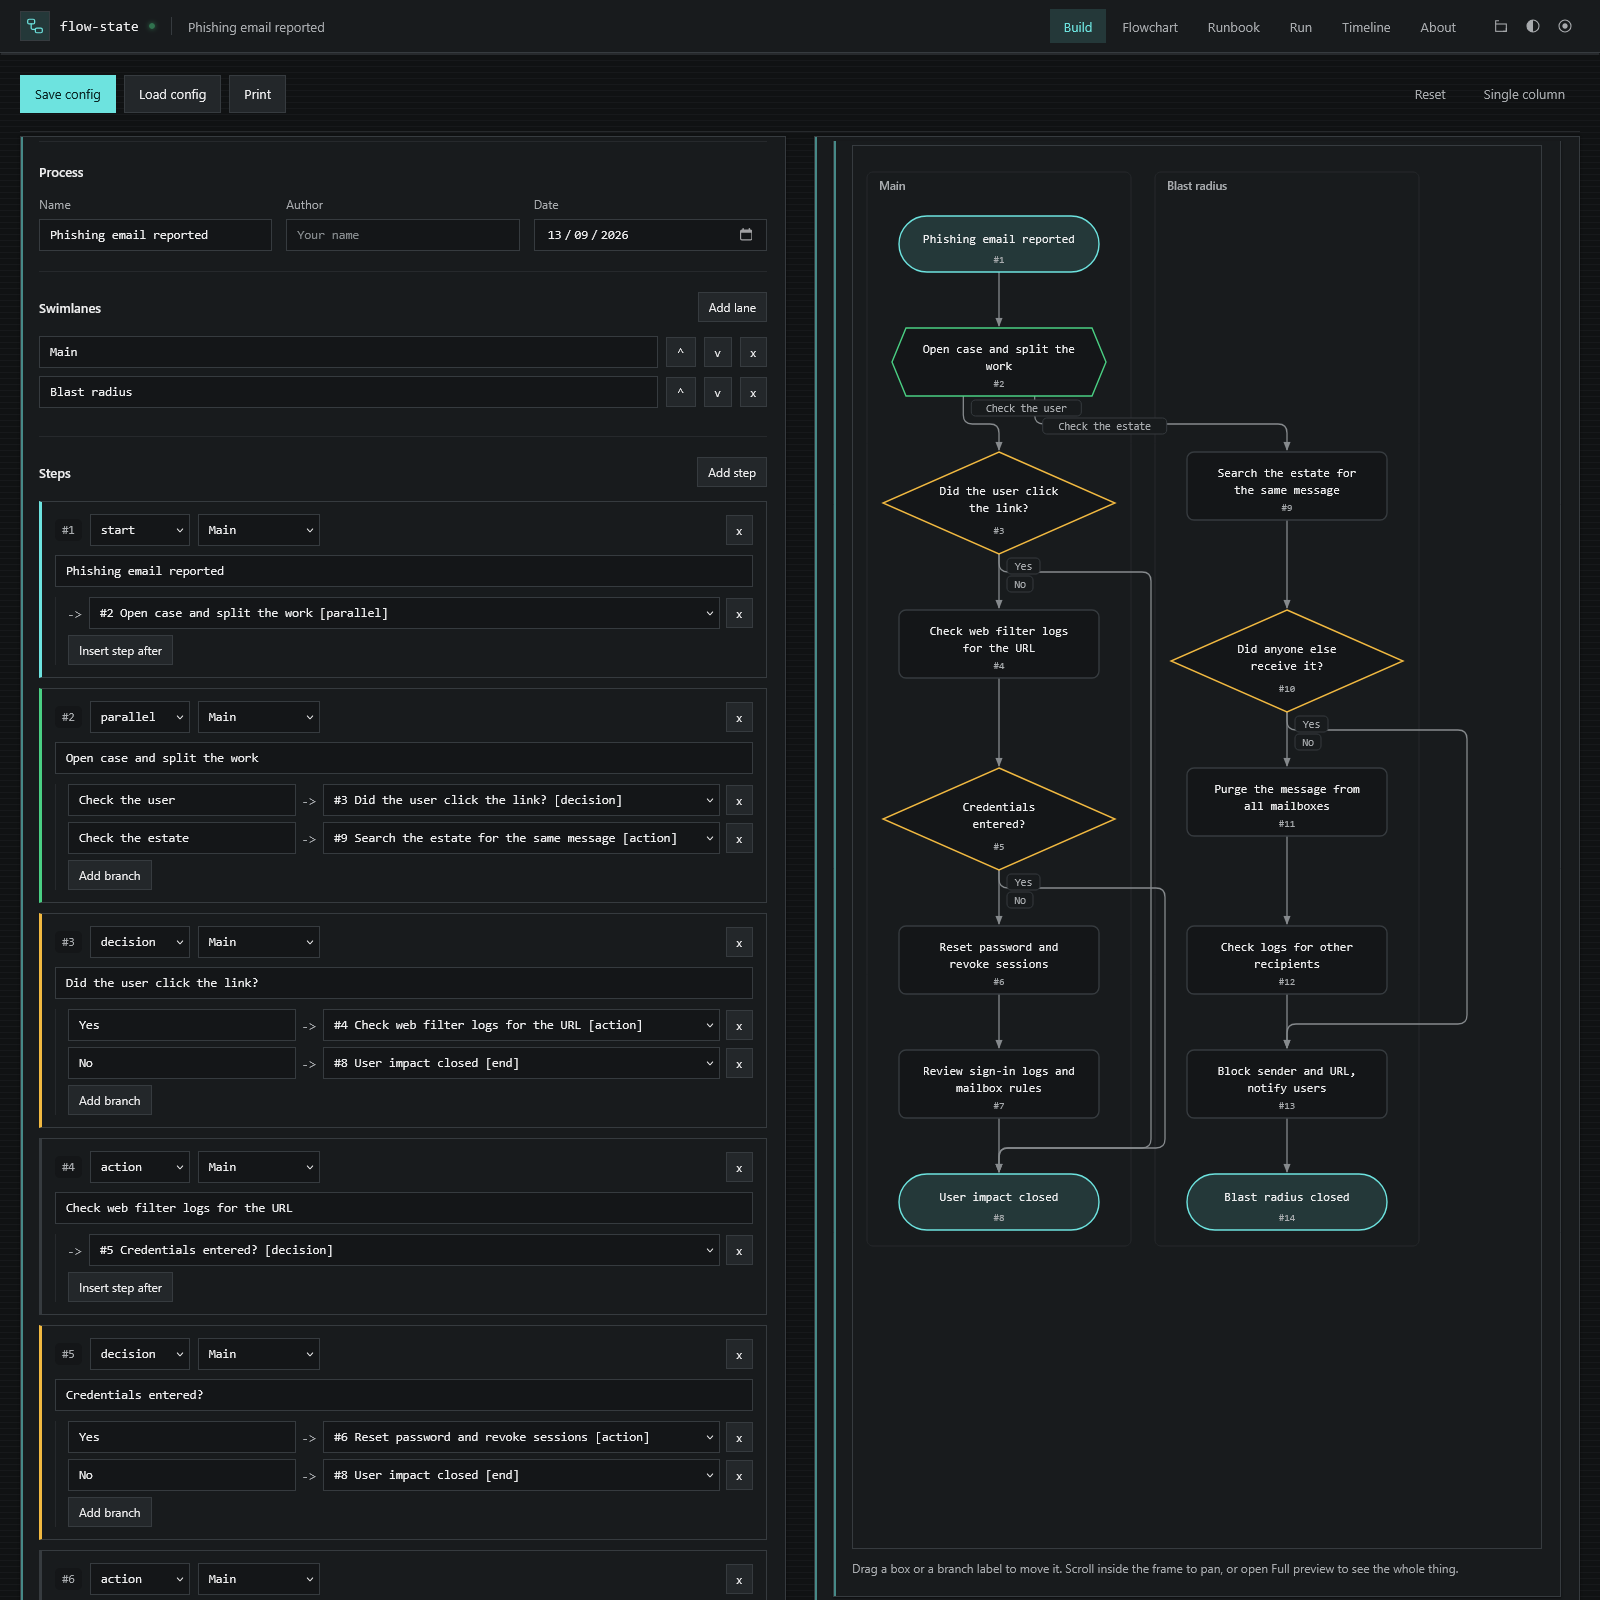
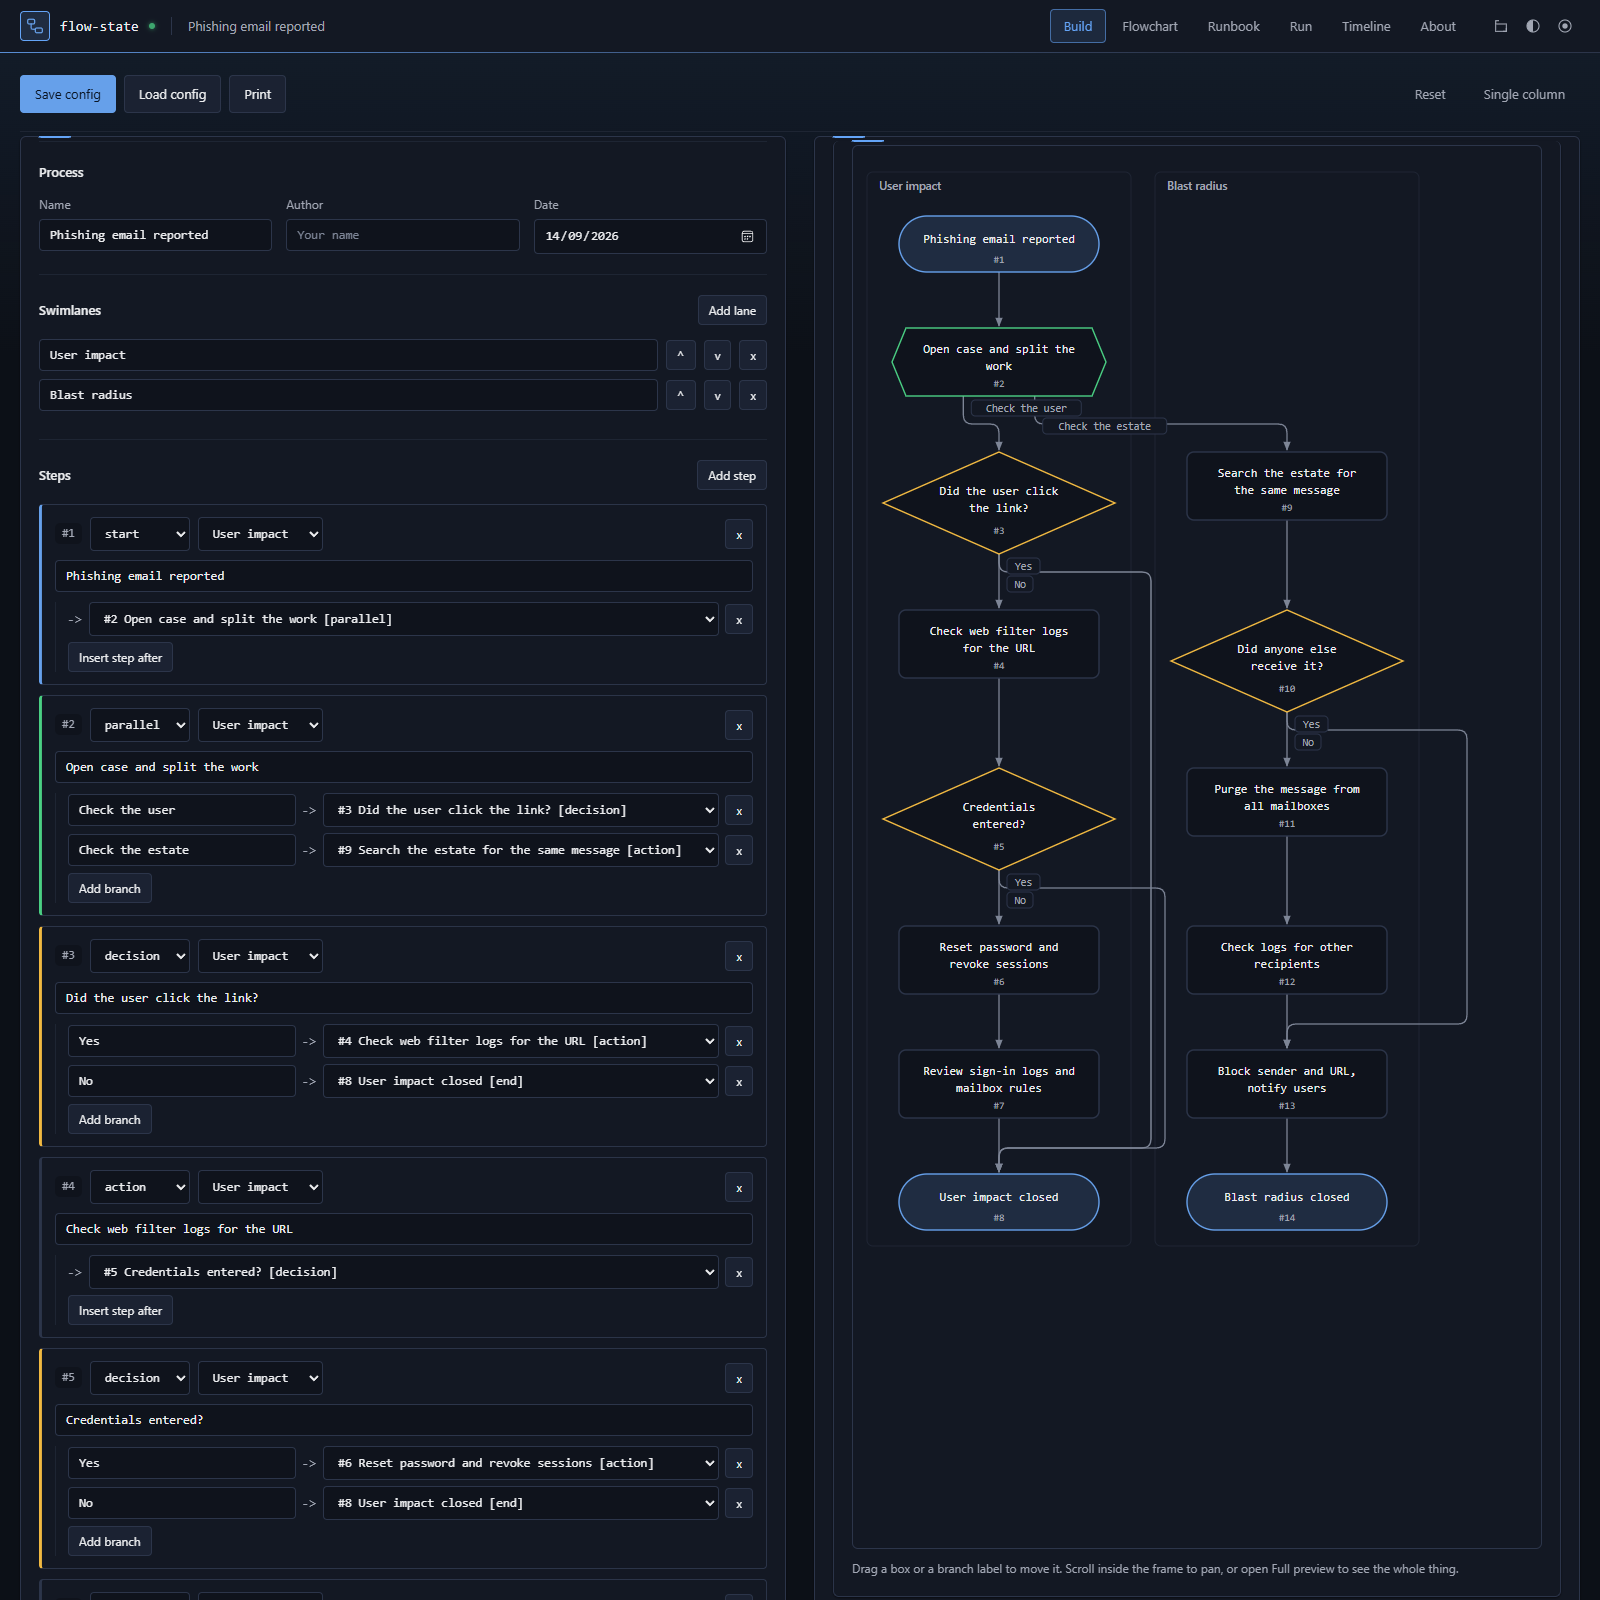
Replace the circuit design with cobalt and make it the default
Cobalt is a navy, blue-ruled design in place of the green circuit board
one. It is now the default and first in the design menu, with Azure as
the default accent. Screenshots retaken in the new default.

diff --git a/index.html b/index.html
@@ -1,5 +1,5 @@
 <!DOCTYPE html>
-<html lang="en" data-design="chamfer" data-mode="dark">
+<html lang="en" data-design="cobalt" data-mode="dark">
 <head>
 <meta charset="UTF-8">
 <meta name="viewport" content="width=device-width, initial-scale=1.0">
@@ -18,7 +18,7 @@
 
    One stylesheet, three independent axes:
 
-     data-design  chamfer | console | circuit | contour
+     data-design  cobalt | chamfer | console | contour
                   shape language, surface hue family, backdrop
                   texture, ornament. This is the "look".
 
@@ -58,15 +58,26 @@
     --ctl:      30px;   /* icon button / logo tile box */
 
     /* Accent defaults, overwritten inline by the picker. */
-    --ah: 178;
-    --ac: 68%;
+    --ah: 214;
+    --ac: 76%;
 }
 
 /* ============================================================
    Designs: hue family per mode group, shape, ornament switches
    ============================================================ */
 
-/* Cut corners, instrument grid. The house design. */
+/* Navy editor chrome, one constant blue rule. The house design. */
+html[data-design="cobalt"] {
+    --hd: 222; --sd: 30%;
+    --hw: 38;  --sw: 28%;
+    --hl: 216; --sl: 28%;
+    --radius: 6px;
+    --radius-sm: 4px;
+    --notch: 0px;
+    --notch-sm: 0px;
+}
+
+/* Cut corners, instrument grid. */
 html[data-design="chamfer"] {
     --hd: 218; --sd: 20%;    /* dark + dusk surfaces */
     --hw: 36;  --sw: 30%;    /* sepia surfaces */
@@ -84,17 +95,6 @@ html[data-design="console"] {
     --hl: 210; --sl: 7%;
     --radius: 0px;
     --radius-sm: 0px;
-    --notch: 0px;
-    --notch-sm: 0px;
-}
-
-/* Board colours, via grid, one constant plating. */
-html[data-design="circuit"] {
-    --hd: 152; --sd: 38%;
-    --hw: 40;  --sw: 34%;
-    --hl: 150; --sl: 8%;
-    --radius: 3px;
-    --radius-sm: 2px;
     --notch: 0px;
     --notch-sm: 0px;
 }
@@ -132,7 +132,7 @@ html[data-mode="dark"] {
     --warn: hsl(41 86% 60%);
     --bad:  hsl(5 85% 66%);
     --ok-ink: hsl(146 60% 8%);
-    --copper: #d3a24a;
+    --cobalt: hsl(214 90% 68%);
 }
 
 /* "Not as dark": same palette lifted off black, for rooms with
@@ -151,7 +151,7 @@ html[data-mode="dusk"] {
     --warn: hsl(41 82% 62%);
     --bad:  hsl(5 82% 68%);
     --ok-ink: hsl(146 60% 9%);
-    --copper: #dcae5c;
+    --cobalt: hsl(214 88% 74%);
 }
 
 /* Warm paper. Bright but low glare. */
@@ -169,7 +169,7 @@ html[data-mode="sepia"] {
     --warn: hsl(32 78% 34%);
     --bad:  hsl(2 68% 44%);
     --ok-ink: hsl(40 40% 97%);
-    --copper: #96681a;
+    --cobalt: hsl(216 62% 38%);
 }
 
 /* Cool white. The print-adjacent one. */
@@ -187,7 +187,7 @@ html[data-mode="light"] {
     --warn: hsl(32 80% 33%);
     --bad:  hsl(2 70% 45%);
     --ok-ink: hsl(150 30% 99%);
-    --copper: #8a6410;
+    --cobalt: hsl(216 72% 42%);
 }
 
 /* ============================================================
@@ -262,13 +262,11 @@ html[data-design="console"] body::before {
         var(--line-soft) 0 1px, transparent 1px 6px);
     opacity: 0.32;
 }
-/* Via holes: a plated ring around a hole the colour of the board. */
-html[data-design="circuit"] body::before {
-    background-image:
-        radial-gradient(circle, var(--line) 1.4px, transparent 1.6px),
-        radial-gradient(circle, var(--bg) 0.7px, transparent 0.9px);
-    background-size: 30px 30px, 30px 30px;
-    opacity: 0.55;
+/* A faint blue light falling from the top edge, like a lit screen. */
+html[data-design="cobalt"] body::before {
+    background-image: linear-gradient(180deg,
+        color-mix(in srgb, var(--cobalt) 9%, transparent), transparent 360px);
+    opacity: 1;
 }
 /* A single soft wash in the current accent, and nothing else. */
 html[data-design="contour"] body::before {
@@ -308,17 +306,15 @@ html[data-design="chamfer"] .chamfer-sm {
     background: var(--card);
     border-bottom: 1px solid var(--line);
 }
-/* Circuit only: the gold contact fingers of a card-edge connector,
-   kept to a hairline so it reads as an edge and not a stripe. */
-html[data-design="circuit"] .topbar::after {
+/* Cobalt only: a blue hairline under the bar that fades out to the
+   right, so it reads as an edge and not a stripe. */
+html[data-design="cobalt"] .topbar::after {
     content: "";
     position: absolute;
-    left: 0; right: 0; bottom: -2px;
-    height: 2px;
-    background: repeating-linear-gradient(90deg,
-        var(--copper) 0, var(--copper) 5px,
-        transparent 5px, transparent 8px);
-    opacity: 0.7;
+    left: 0; right: 0; bottom: -1px;
+    height: 1px;
+    background: linear-gradient(90deg, var(--cobalt), transparent 75%);
+    opacity: 0.8;
 }
 /* Console only: the bar sits on a second hairline, like a rule under
    a header in a terminal UI. Drawn as a shadow, so it takes no space. */
@@ -388,7 +384,7 @@ html[data-design="chamfer"] .logo {
     border-radius: 0;
     clip-path: polygon(8px 0, 100% 0, 100% 100%, 0 100%, 0 8px);
 }
-html[data-design="circuit"] .logo { border-color: var(--copper); }
+html[data-design="cobalt"] .logo { border-color: var(--cobalt); }
 html[data-design="contour"] .logo { border-radius: 50%; }
 @keyframes logo-in {
     from { opacity: 0; transform: scale(0.75); }
@@ -432,7 +428,14 @@ html[data-design="contour"] .tab[aria-selected="true"] { background: var(--accen
 html[data-design="console"] .tab::after,
 html[data-design="contour"] .tab::after { display: none; }
 html[data-design="contour"] .tab { border-radius: 999px; }
-html[data-design="circuit"] .tab[aria-selected="true"]::after { background: var(--copper); }
+/* Cobalt: the selected tab is a boxed chip, like a picker in a toolbar.
+   The border was already there, transparent, so nothing moves. */
+html[data-design="cobalt"] .tab[aria-selected="true"] {
+    color: var(--cobalt);
+    background: color-mix(in srgb, var(--cobalt) 12%, transparent);
+    border-color: color-mix(in srgb, var(--cobalt) 55%, transparent);
+}
+html[data-design="cobalt"] .tab::after { display: none; }
 
 /* ---------- Menus: design, mode, accent ---------- */
 .bar-tools { display: flex; align-items: center; gap: 2px; flex: 0 0 auto; }
@@ -510,11 +513,12 @@ html[data-design="circuit"] .tab[aria-selected="true"]::after { background: var(
 .opt[data-set="console"] .dsw {
     background-image: repeating-linear-gradient(180deg, var(--fg-faint) 0 1px, transparent 1px 4px);
 }
-.opt[data-set="circuit"] .dsw {
-    border-radius: 2px;
-    background-image: radial-gradient(circle, var(--fg-faint) 1.2px, transparent 1.4px);
-    background-size: 8px 8px;
-    background-position: 1px 1px;
+.opt[data-set="cobalt"] .dsw {
+    border-radius: 3px;
+    background-image: linear-gradient(90deg, var(--fg-faint) 0 60%, transparent 60%);
+    background-size: 100% 1px;
+    background-repeat: no-repeat;
+    background-position: 0 4px;
 }
 .opt[data-set="contour"] .dsw { border-radius: 50%; }
 
@@ -648,16 +652,15 @@ html[data-design="console"] .panel::before {
     background: var(--accent);
     opacity: 0.55;
 }
-/* Circuit: a fiducial in the corner, the way a board marks its own
-   orientation. Sits in the padding, never in the content. */
-html[data-design="circuit"] .panel::before {
+/* Cobalt: a short blue rule on the top edge, like the marker on an
+   active editor tab. Sits on the border, never in the content. */
+html[data-design="cobalt"] .panel::before {
     content: "";
     position: absolute;
-    top: 6px; right: 6px;
-    width: 7px; height: 7px;
-    border: 1.5px solid var(--copper);
-    border-radius: 50%;
-    opacity: 0.65;
+    top: -1px; left: var(--pad);
+    width: 32px; height: 2px;
+    background: var(--cobalt);
+    border-radius: 0 0 2px 2px;
 }
 @media print { .panel { clip-path: none !important; } .panel::before { display: none; } }
 
@@ -946,7 +949,7 @@ td .field { padding: 5px 8px; }
         --line: #999999; --line-soft: #cccccc;
         --fg: #111111; --fg-dim: #555555; --fg-faint: #777777;
         --accent: #333333; --accent-soft: transparent; --accent-ink: #ffffff;
-        --copper: #555555;
+        --cobalt: #555555;
         --shadow: none; --shadow-lift: none;
     }
     body::before { display: none !important; }
@@ -1383,6 +1386,11 @@ section > .block:first-child { border-top: 0; padding-top: 4px; }
                 </button>
                 <div class="menu" id="designMenu" role="menu" hidden>
                     <div class="menu-title">Design</div>
+                    <button class="opt" role="menuitemradio" aria-checked="false" data-set="cobalt">
+                        <span class="dsw" aria-hidden="true"></span>
+                        <span class="lbl">Cobalt<small>navy chrome, blue rule, soft corners</small></span>
+                        <span class="tick" aria-hidden="true">&check;</span>
+                    </button>
                     <button class="opt" role="menuitemradio" aria-checked="false" data-set="chamfer">
                         <span class="dsw" aria-hidden="true"></span>
                         <span class="lbl">Chamfer<small>cut corners, instrument grid</small></span>
@@ -1391,11 +1399,6 @@ section > .block:first-child { border-top: 0; padding-top: 4px; }
                     <button class="opt" role="menuitemradio" aria-checked="false" data-set="console">
                         <span class="dsw" aria-hidden="true"></span>
                         <span class="lbl">Console<small>square, graphite, scan rules</small></span>
-                        <span class="tick" aria-hidden="true">&check;</span>
-                    </button>
-                    <button class="opt" role="menuitemradio" aria-checked="false" data-set="circuit">
-                        <span class="dsw" aria-hidden="true"></span>
-                        <span class="lbl">Circuit<small>board colours, via grid, copper</small></span>
                         <span class="tick" aria-hidden="true">&check;</span>
                     </button>
                     <button class="opt" role="menuitemradio" aria-checked="false" data-set="contour">
@@ -1455,11 +1458,11 @@ section > .block:first-child { border-top: 0; padding-top: 4px; }
                     <div class="wheel-wrap">
                         <div class="wheel" id="wheel" tabindex="0" role="slider"
                              aria-label="Accent colour wheel. Left and right change hue, up and down change intensity."
-                             aria-valuemin="0" aria-valuemax="359" aria-valuenow="178" aria-valuetext="Teal">
+                             aria-valuemin="0" aria-valuemax="359" aria-valuenow="214" aria-valuetext="Azure">
                             <span class="wheel-dot" id="wheelDot" aria-hidden="true"></span>
                         </div>
                         <div class="accent-foot">
-                            <span>Accent: <span class="now" id="accentNow">Teal</span></span>
+                            <span>Accent: <span class="now" id="accentNow">Azure</span></span>
                             <label class="hexin" title="Match a brand colour exactly. The lightness is still set per mode.">#<input
                                 type="text" class="field" id="accentHex" maxlength="7" placeholder="2ec4b6"
                                 spellcheck="false" autocomplete="off" aria-label="Accent colour as hex"></label>
@@ -1883,7 +1886,7 @@ function SAY(m) {
        ============================================================ */
     const root = document.documentElement;
 
-    const DESIGNS = ["chamfer", "console", "circuit", "contour"];
+    const DESIGNS = ["cobalt", "chamfer", "console", "contour"];
     const MODES   = ["dark", "dusk", "sepia", "light"];
 
     /* Hue plus chroma. Kept clear of the green, amber and red that --ok,
@@ -1899,7 +1902,10 @@ function SAY(m) {
         { id: "slate",  name: "Slate",  h: 210, c: 18 }
     ];
 
-    let accent = { h: 178, c: 68, name: "Teal" };
+    /* Azure suits the default cobalt design. */
+const DEFAULT_ACCENT = ACCENTS.find(a => a.id === "azure");
+
+let accent = { h: DEFAULT_ACCENT.h, c: DEFAULT_ACCENT.c, name: DEFAULT_ACCENT.name };
 
     /* ---------- keeping an arbitrary hue readable ----------
        HSL lightness is not perceptual: hsl(178 68% 40%) and
@@ -2171,7 +2177,7 @@ function SAY(m) {
     (() => {
         let a = null;
         try { a = JSON.parse(ST.get("accent")); } catch (e) {}
-        applyAccent(a && isFinite(a.h) ? a : ACCENTS[0], false);
+        applyAccent(a && isFinite(a.h) ? a : DEFAULT_ACCENT, false);
     })();
 })();
 

diff --git a/README.md b/README.md
@@ -89,9 +89,9 @@ one never resets the others.
 
 | Design | Shape | Backdrop |
 |---|---|---|
-| `chamfer` | Cut corners | Instrument grid. The default |
+| `cobalt` | Slight radius, navy | Blue glow from the top, blue edge rules. The default |
+| `chamfer` | Cut corners | Instrument grid |
 | `console` | Square, graphite | Horizontal scan rules |
-| `circuit` | Slight radius, board green | Via holes, copper edge |
 | `contour` | Soft radii, violet | A single accent wash |
 
 **Mode** sets the lightness ramp only, and every design supports every mode:
